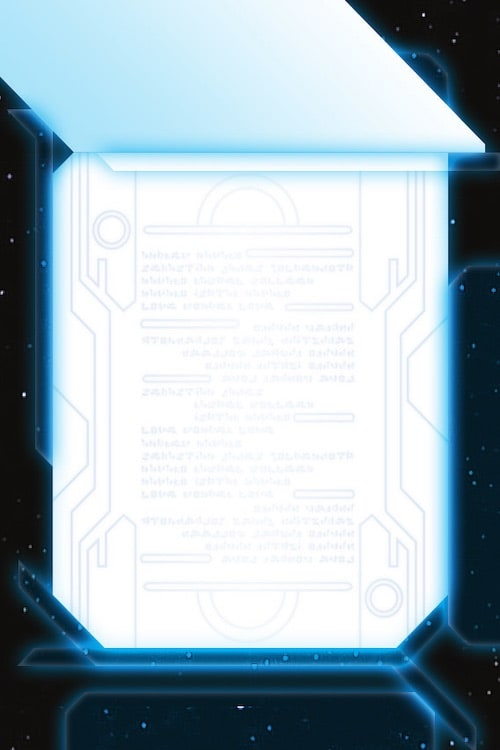
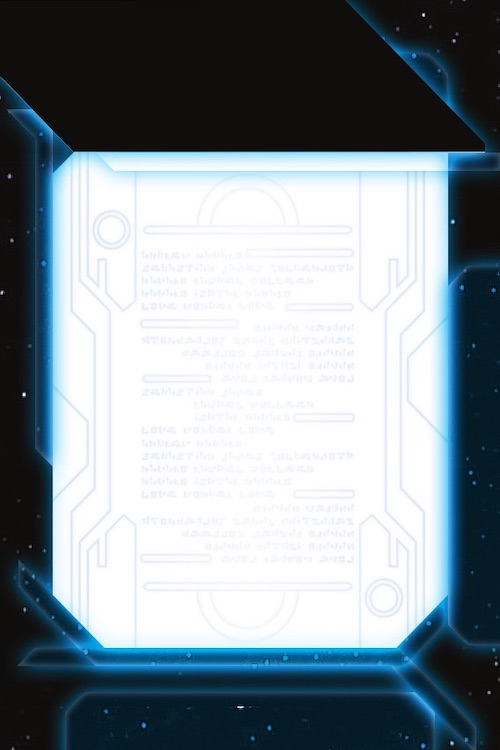
promissory

Changed region(s): [[0.0, 0.0, 0.99, 0.2147]]

diff --git a/Kruft/ti4-card-images/main.py b/Kruft/ti4-card-images/main.py
@@ -233,8 +233,8 @@ def wrapTextBoldStart(draw, font1, font2, font3, text, x, y, maxX, fill, lineH, 
     i = 0
     for word in words:
         isAction = (i == 0 and word.lower() == 'action:') or (i == 1 and word == ':' and words[i-1].lower() == 'action')
-        isFor = word.lower() == 'for:' or (i > 0 and word == ':' and words[i-1].lower() == 'for')
-        isAgainst = word.lower() == 'against:' or (i > 0 and word == ':' and words[i-1].lower() == 'against')
+        isFor = word.lower() == 'for:' or (i > 0 and word == ':' and words[i-1].lower() == 'pour')
+        isAgainst = word.lower() == 'against:' or (i > 0 and word == ':' and words[i-1].lower() == 'contre')
 
         dy = 0
         if font == font3:
@@ -363,15 +363,15 @@ AGENDA_BODY_TEXT_SIZE = 28
 AGENDA_BODY_TEXT_H = 35
 
 PROMISSORY_TITLE_L = 250
-PROMISSORY_TITLE_R = 130 # 100
+PROMISSORY_TITLE_R = 100 # 100
 PROMISSORY_TITLE_Y1 = 55
 PROMISSORY_TITLE_Y2 = 35
 PROMISSORY_TITLE_TEXT_SIZE = 39
 PROMISSORY_TITLE_TEXT_H = 39
 
-PROMISSORY_BODY_L = 70
-PROMISSORY_BODY_R = 65 # 25
-PROMISSORY_BODY_Y = 206
+PROMISSORY_BODY_L = 80
+PROMISSORY_BODY_R = 80
+PROMISSORY_BODY_Y = 180
 PROMISSORY_BODY_TEXT_SIZE = 31
 PROMISSORY_BODY_TEXT_H = 37
 PROMISSORY_BODY_UPPER_TEXT_SIZE = 24
@@ -403,7 +403,7 @@ def actionCard(title, body, flavor, cardImage, titlesize, fontsize):
 
     body = body.replace('Action:', 'ACTION:')
     body = body.replace('Action :', 'ACTION :')
-    if 'ACTION:' in body:
+    if ('ACTION:' in body) or ('ACTION :') in body:
         font1 = getFont('MyriadProBoldItalic.ttf', ACTION_BODY_TEXT_SIZE + fontsize)
     else:
         font1 = getFont('MyriadProBold.ttf', ACTION_BODY_TEXT_SIZE + fontsize)
@@ -418,6 +418,7 @@ def actionCard(title, body, flavor, cardImage, titlesize, fontsize):
     lineH = ACTION_BODY_TEXT_H + fontsize
     for line in text.split('\n'):
         y = wrapTextBoldStart(draw, font1, font2, font3, line, x, y, maxX, color, lineH, 2)
+        font1 = font2
 
     font = getFont('MyriadWebProItalic.ttf', ACTION_FLAVOR_TEXT_SIZE + fontsize)
     color = (255, 255, 255, 255)
@@ -603,12 +604,12 @@ def agendaCard(title, type, body, cardImage, titlesize, fontsize):
         text = text[:i] + text[j+1:]
         y = wrapTextCenter(draw, font2, whenText, x, y, maxX, color, lineH)
 
-    if 'Elect ' in text:
+    if 'Elect ' in text or 'Élisez ' in text:
         font1 = getFont('MyriadProSemibold.otf', AGENDA_BODY_TEXT_SIZE + fontsize)
         x = AGENDA_BODY_ELECT_L
         maxX = CARD_W - AGENDA_BODY_ELECT_R
         for line in text.split('\n'):
-            if line.startswith('Elect '):
+            if line.startswith('Elect ') or lines.startswith('Élisez '):
                 y = wrapTextCenter(draw, font1, line, x, y, maxX, color, lineH)
             else:
                 y = wrapTextCenter(draw, font2, line, x, y, maxX, color, lineH)
@@ -617,8 +618,8 @@ def agendaCard(title, type, body, cardImage, titlesize, fontsize):
         x = AGENDA_BODY_FORAGAINST_L
         maxX = CARD_W - AGENDA_BODY_FORAGAINST_R
         for line in text.split('\n'):
-            isFor = line.startswith('For:') or line.startswith('For :')
-            isAgainst = line.startswith('Against:') or line.startswith('Against :')
+            isFor = line.startswith('For:') or line.startswith('Pour :')
+            isAgainst = line.startswith('Against:') or line.startswith('Contre :')
             if isFor or isAgainst:
                 y = wrapTextBoldStart(draw, font1, font2, font3, line, x, y, maxX, color, lineH, 1)
             else:
@@ -632,7 +633,7 @@ def promissoryCard(color, title, body, titlesize, fontsize):
     draw = ImageDraw.Draw(img)
 
     font = getFont('HandelGothicDBold.otf', PROMISSORY_TITLE_TEXT_SIZE + titlesize)
-    color = (0, 0, 0, 255)
+    color = (255, 255, 255, 255)
     text = title
     x = PROMISSORY_TITLE_L
     y1 = PROMISSORY_TITLE_Y1
@@ -642,12 +643,7 @@ def promissoryCard(color, title, body, titlesize, fontsize):
     y = nudgeY(font, text, maxX, y1, y2)
     wrapTextCenter(draw, font, text, x, y, maxX, color, lineH)
 
-    body = body.replace('Action:', 'ACTION:')
-    body = body.replace('Action :', 'ACTION :')
-    if 'ACTION:' in body:
-        font1 = getFont('MyriadProBoldItalic.ttf', PROMISSORY_BODY_TEXT_SIZE + fontsize)
-    else:
-        font1 = getFont('MyriadProBold.ttf', PROMISSORY_BODY_TEXT_SIZE + fontsize)
+    font1 = getFont('MyriadProBold.ttf', PROMISSORY_BODY_TEXT_SIZE + fontsize)
     font2 = getFont('MyriadProSemibold.otf', PROMISSORY_BODY_TEXT_SIZE + fontsize)
     font3 = getFont('HandelGothicDBold.otf', PROMISSORY_BODY_UPPER_TEXT_SIZE + fontsize)
 
@@ -659,6 +655,7 @@ def promissoryCard(color, title, body, titlesize, fontsize):
     lineH = PROMISSORY_BODY_TEXT_H + fontsize
     for line in text.split('\n'):
         y = wrapTextBoldStart(draw, font1, font2, font3, line, x, y, maxX, color, lineH, 2)
+        font1 = font2
 
     return imageToJPEG(img)
 
@@ -811,7 +808,7 @@ class CardHandler(webapp2.RequestHandler):
         hash.update(points.encode('utf-8'))
         hash.update(titlesize.encode('utf-8'))
         hash.update(fontsize.encode('utf-8'))
-        hash.update('version6')
+        hash.update('version8')
         key = hash.hexdigest().lower()
 
         cardOptions = CARD_OPTIONS[card]
@@ -1158,7 +1155,7 @@ app = webapp2.WSGIApplication([
     #('/testpublic', TestPublicHandler),
     #('/testagenda', TestAgenda1Handler),
     #('/testagenda2', TestAgenda2Handler),
-    #('/mutatesystem', MutateSystemTile),
+    ('/mutatesystem', MutateSystemTile),
     #('/mutatefaction', MutateFactionTokens),
     #('/radialdither', RadialDither),
     #('/4k', FourK),
